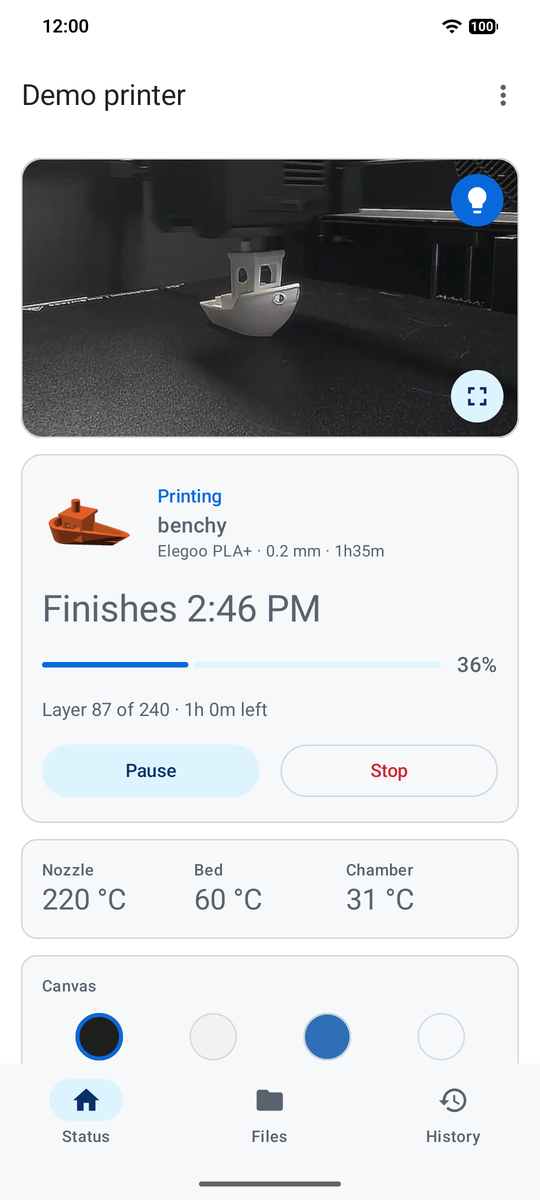
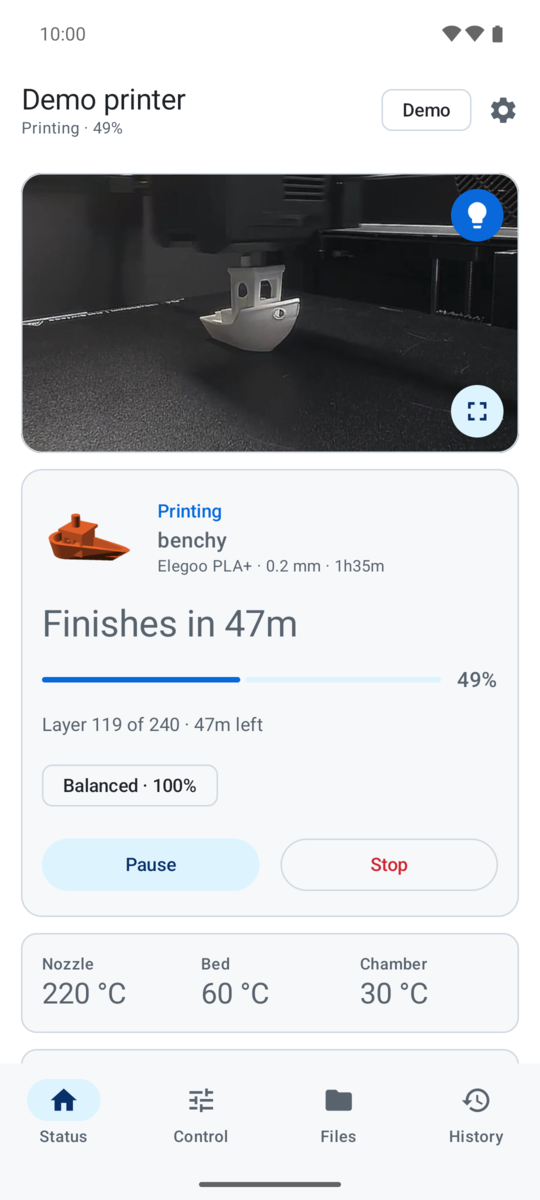
docs: retake README and store screenshots on 0.9.x

diff --git a/README.md b/README.md
@@ -10,7 +10,7 @@ local protocol (SDCP) the printer's own web interface uses.
 <!-- Light or dark screenshots, following the reader's GitHub theme. -->
 | Status | Files | Start a print |
 |---|---|---|
-| <picture><source media="(prefers-color-scheme: dark)" srcset="docs/screenshots/status.png"><img alt="Status" src="docs/screenshots/status-light.png"></picture> | <picture><source media="(prefers-color-scheme: dark)" srcset="docs/screenshots/files.png"><img alt="Files" src="docs/screenshots/files-light.png"></picture> | <picture><source media="(prefers-color-scheme: dark)" srcset="docs/screenshots/start.png"><img alt="Start a print, with a Canvas tray" src="docs/screenshots/start-light.png"></picture> |
+| <picture><source media="(prefers-color-scheme: dark)" srcset="docs/screenshots/status.png"><img alt="Status" src="docs/screenshots/status-light.png"></picture> | <picture><source media="(prefers-color-scheme: dark)" srcset="docs/screenshots/files.png"><img alt="Files" src="docs/screenshots/files-light.png"></picture> | <picture><source media="(prefers-color-scheme: dark)" srcset="docs/screenshots/start.png"><img alt="Start a print" src="docs/screenshots/start-light.png"></picture> |
 
 Screenshots are from the built-in demo mode, so you can try the app without a printer too.
 

diff --git a/TODO.md b/TODO.md
@@ -52,10 +52,10 @@ What's not done yet, and why. Command numbers are SDCP `Cmd` ids (see `Protocol.
 
 ## Docs and screenshots
 
-- [ ] **New screenshots** (2026-10-23): `docs/screenshots/` (README, light + dark) and
-  `fastlane/metadata/android/*/images/` predate 0.9.x: Control tab, start sheet, notification
-  actions, Live Update, widgets, Quick Settings tile. Take them with `installDebug -Pshots`.
-- [ ] **README and docs** brought up to date with 0.9.x (features, settings, how it works).
+- [x] **New screenshots** (2026-10-27): README and store phone shots retaken on 0.9.x (emulator,
+  demo mode). Still old: the tablet shot. Not shot (ask first, the README keeps one row): Control tab,
+  notification actions, Live Update, widgets, Quick Settings tile.
+- [x] **README** feature list cut to one line per area (2026-10-27).
 
 ## Release and distribution
 
